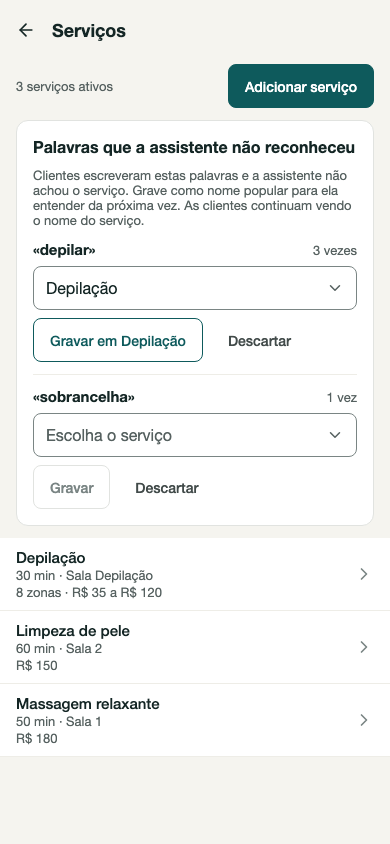
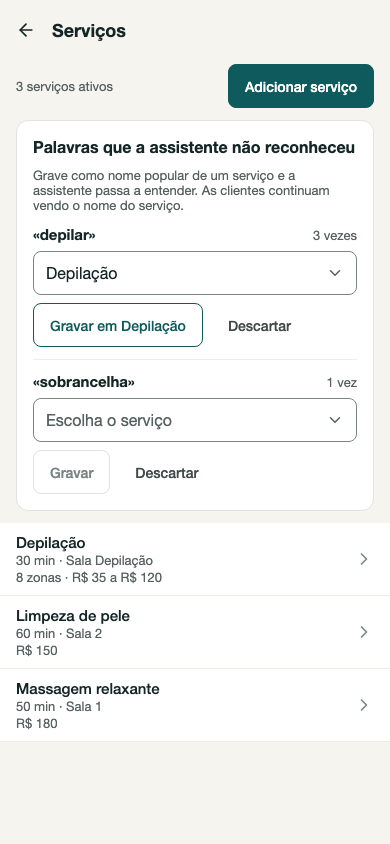
docs(clinic): copy do cartão M-63 Confirmada, descrição curta (DEC-141)
Paulo, 05/11/2026, sob DEC-104: título, botões e avisos como propostos;
descrição na versão curta. Atualiza o cartão, o teste, o mock e o preview
M-63, screens.md, ux-ui.md e a nota na DEC-141.

diff --git a/src/client/panel/screens/clinic/UnmatchedTermsCard.tsx b/src/client/panel/screens/clinic/UnmatchedTermsCard.tsx
@@ -14,9 +14,10 @@ type Props = {
 }
 
 /**
- * Palavras que a assistente não reconheceu (DEC-141, M-16 lista de Serviços).
+ * Palavras que a assistente não reconheceu (DEC-141, M-63 lista de Serviços).
  * Só a responsável vê (DEC-042). O serviço provável vem pré-escolhido, então
- * gravar é um toque; o sistema nunca grava sozinho. Copy **Proposta** (DEC-104).
+ * gravar é um toque; o sistema nunca grava sozinho. Copy **Confirmada** (Paulo,
+ * 05/11/2026, sob DEC-104).
  */
 export function UnmatchedTermsCard({ tenantId, api, generation, services, onSaved }: Props) {
   const [items, setItems] = useState<UnmatchedTermSuggestion[] | null>(null)
@@ -96,8 +97,8 @@ export function UnmatchedTermsCard({ tenantId, api, generation, services, onSave
         Palavras que a assistente não reconheceu
       </h2>
       <p className="panel-muted-sm">
-        Clientes escreveram estas palavras e a assistente não achou o serviço. Grave como nome
-        popular para ela entender da próxima vez. As clientes continuam vendo o nome do serviço.
+        Grave como nome popular de um serviço e a assistente passa a entender. As clientes
+        continuam vendo o nome do serviço.
       </p>
       <ul className="unmatched-terms-list">
         {items.map((item) => {

diff --git a/docs/design/mobile/ServicosSugestoes.dc.html b/docs/design/mobile/ServicosSugestoes.dc.html
@@ -48,7 +48,7 @@ body{margin:0}
 
     <section class="card" aria-labelledby="umt" style="margin:0 16px">
       <h2 class="h" id="umt">Palavras que a assistente não reconheceu</h2>
-      <p class="mut">Clientes escreveram estas palavras e a assistente não achou o serviço. Grave como nome popular para ela entender da próxima vez. As clientes continuam vendo o nome do serviço.</p>
+      <p class="mut">Grave como nome popular de um serviço e a assistente passa a entender. As clientes continuam vendo o nome do serviço.</p>
 
       <div class="term">
         <div class="th"><b>«depilar»</b><span class="mut">3 vezes</span></div>

diff --git a/src/client/panel/screens/clinic/UnmatchedTermsCard.test.tsx b/src/client/panel/screens/clinic/UnmatchedTermsCard.test.tsx
@@ -39,6 +39,12 @@ describe('UnmatchedTermsCard (DEC-141)', () => {
     )
     expect(await screen.findByText('«depilar»')).toBeTruthy()
     expect(screen.getByText('3 vezes')).toBeTruthy()
+    // Copy Confirmada (Paulo, 05/11/2026, DEC-104): versão curta.
+    expect(
+      screen.getByText(
+        'Grave como nome popular de um serviço e a assistente passa a entender. As clientes continuam vendo o nome do serviço.',
+      ),
+    ).toBeTruthy()
     // Sem serviço provável, gravar espera a escolha.
     const buttons = screen.getAllByRole('button', { name: 'Gravar' })
     expect(buttons).toHaveLength(1)

diff --git a/docs/product/decisions.md b/docs/product/decisions.md
@@ -198,4 +198,4 @@ Enquanto essas decisões não estiverem fechadas, é possível demonstrar a jorn
 | DEC-138 | **Confirmado** (Paulo, 03/11/2026: «1 sim», «2 flow sem flag», «3 saem», em resposta à recomendação sobre a fragilidade da conversa de agendamento) | Caminho principal de agendar: WhatsApp Flow, depois de reforçar o núcleo | A sonda real de novembro de 2026 mostrou que o bot avança com um pedido incompleto (zona que cai, dia perdido no toque, sessão antiga, Confirmar expirado). Como tornar o agendamento robusto? | (1) **Fase 1 já, sem a Meta:** doze práticas no núcleo e no texto livre (limiar de confiança; id e não título; uma forma de data `terça 03/11 17:00` sem fuso nem mês-dia; um só quadro para toque, texto, correção e Flow; recomeçar limpa o frame; uma pergunta pelo campo que falta; corrigir volta ao campo certo; validade visível; atalho de texto com eco; handoff com o quadro; sinónimos e plural só na linha; medir o estrago). (2) **Fase 2, depois do primeiro teste real com a Meta:** o caminho principal passa a ser um WhatsApp Flow com `data_exchange` em quatro passos (serviço, género só se houver mais do que um, variantes em seleção múltipla com «Todas», horário livre da agenda no relógio da clínica). **Sem flag.** O Flow não marca, não escolhe sala nem profissional, não cobra Pix; no fim, o chat envia a proposta e só o Confirmar marca (DEC-061). O texto livre continua com o eco (DEC-137); se o Flow não abrir, o chat assume. (3) **Quando o Flow entrar, as listas e botões de escolha do M5 saem.** Ficam o Confirmar, o «Falar com a equipe» e os follow-ups. Opções descartadas: só reforçar o chat; Flow só para as zonas; Flow atrás de flag; manter as listas como caminho alternativo. | Plano e issues em [epic-nucleo-conversacional.md](../implementation/epic-nucleo-conversacional.md) (#506 a #515). Revê, quando o Flow entrar, a DEC-128, a DEC-133, a DEC-134 e a DEC-135 (listas e botões). **Confirmado (Paulo, 04/11/2026 America/Sao_Paulo, opção A, fecha o Em aberto da [#515](https://github.com/intentzero/tredane/issues/515)):** os botões **Sim / Corrigir** do eco da DEC-137 **mantêm-se** no caminho de texto livre quando o Flow entrar e o M5 sair. **Em aberto:** frases novas da Fase 1 (fora de C1–C15) exigem aprovação (DEC-104). Não altera DEC-061, DEC-079, DEC-083, DEC-104 nem DEC-127. **Revisão do item 1 (Paulo, 03/11/2026, «Eu queria avançar desde já para flow»):** o Flow deixa de esperar a Fase 1 e passa a ser a frente principal já. Da Fase 1, entram antes ou junto do Flow só as fatias de que ele depende (#506 casos da sonda, #507 id do horário com data e hora, #510 um só quadro); as restantes (#508, #509, #511, #512) seguem em paralelo para o texto livre. O teste do Flow faz-se no WABA da clínica de teste antes do merge que o liga; continua sem flag. **ADR-0016 Confirmado** (Paulo, 04/11/2026 America/Sao_Paulo, opção A): desenho de engenharia do Flow em [ADR-0016](../adr/0016-whatsapp-flow-agendamento.md); a #513 fecha com o ADR escrito; a #514 (implementação/Meta) continua aberta. **Copy C1–C15 Confirmada** (Paulo, 04/11/2026 America/Sao_Paulo, opção A, sob DEC-104): as 15 frases do Flow em ADR-0016 §10 / `FLOW_COPY` ficam aprovadas exactamente como estão; sem DEC nova — nota Confirmada sob DEC-138/ADR (as levas DEC-122/123 usaram DEC própria por serem lotes do catálogo de atos). Não liga o Flow live nem a #515. **Implementação parcial (#509):** práticas 1 e 11 no texto livre — limiar de confiança (sobra sem match único pergunta; nunca Horários com N−1) e sinónimos/plural só no âmbito da linha travada (DEC-110 + DEC-137); copy «Não encontrei {palavra}…» **Proposta** até aprovação. |
 | DEC-139 | **Confirmado** (Paulo, 05/11/2026, guia de decisões da [metodologia de avaliação](../implementation/metodologia-avaliacao-conversacional.md), decisões 1 a 4, todas na opção recomendada; [#567](https://github.com/intentzero/tredane/pull/567)) | Metodologia de teste e avaliação da interface conversacional | (1) A metodologia é a **referência do projeto**: KPIs em quatro camadas (gate, saúde offline, produção, processo), comparação caso a caso com a linha de base do scorecard L1, cadência e gatilhos de revisão. Os limiares numéricos (latência, custo, tolerâncias de `KPI_RULES`) continuam **Em aberto** até haver duas linhas de base. (2) Uma **regressão informativa** do scorecard (não-INV) **não bloqueia** o merge, mas o PR tem de a justificar ou corrigir; reavaliar depois de duas linhas de base estáveis. As INV continuam a bloquear (DEC-108). (3) **Cadência:** uma iteração por semana durante o piloto **e** antes de cada liberação ao piloto, o que vier primeiro (linha de base, L2/L3 live dentro da DEC-117/126, linha no §7 do plano). (4) **Análise de erros:** o agente lê os traços, agrupa e propõe taxonomia e casos novos; o Paulo valida. | Completa a DEC-108. Opções descartadas: bloquear já com `EVAL_STRICT=1`; só informativo; cadência só por liberação ou por PR; análise feita só pelo Paulo ou por outra pessoa. |
 | DEC-140 | **Confirmado** (Paulo, 05/11/2026, decisão 5 do mesmo guia, opção recomendada) | Texto que acompanha o CTA do Flow a meio do funil | Quando o Flow substitui as escolhas do M5 (linha, variantes, horários) depois de um pedido da cliente, o corpo da mensagem é a **pergunta que o funil já calculou** (ex. «Para Depilação, é na versão feminina ou masculina?») com o botão «Abrir opções». O C1h «Olá! O que você precisa?» fica só como recurso quando não há texto do funil. Não cria copy nova (DEC-104). A abertura do hub ao cumprimento não muda. | Opções descartadas: frase nova do Flow; manter o C1h. Afeta `maybeReplaceM5WithFlow` (`offer-live.ts`) e o FL-12. |
-| DEC-141 | **Confirmado** (Paulo, 05/11/2026, decisão 6 do mesmo guia, opção recomendada) | Reconhecer formas verbais sem sinónimo («depilar» → Depilação) | **Mantém-se a DEC-110:** sem derivação automática de verbos a partir do nome do serviço. Quando um termo não é reconhecido, o painel deve **sugerir à owner** gravar o sinónimo (realiza o Em aberto da DEC-110; só a owner grava). O A-20 fixa o comportamento atual. | Opções descartadas: derivar verbos (risco de casar o serviço errado entre nomes parecidos); manter sem sugestão. **Implementado (05/11/2026):** registo por clínica só do termo (migração 0052 `unmatched_terms`, sem conversa nem contato), cartão «Palavras que a assistente não reconheceu» na lista de Serviços da owner (M-63) com o serviço provável pré-escolhido, **Gravar** e **Descartar**; L1 A-21. Copy do cartão **Proposta** (DEC-104). |
+| DEC-141 | **Confirmado** (Paulo, 05/11/2026, decisão 6 do mesmo guia, opção recomendada) | Reconhecer formas verbais sem sinónimo («depilar» → Depilação) | **Mantém-se a DEC-110:** sem derivação automática de verbos a partir do nome do serviço. Quando um termo não é reconhecido, o painel deve **sugerir à owner** gravar o sinónimo (realiza o Em aberto da DEC-110; só a owner grava). O A-20 fixa o comportamento atual. | Opções descartadas: derivar verbos (risco de casar o serviço errado entre nomes parecidos); manter sem sugestão. **Implementado (05/11/2026):** registo por clínica só do termo (migração 0052 `unmatched_terms`, sem conversa nem contato), cartão «Palavras que a assistente não reconheceu» na lista de Serviços da owner (M-63) com o serviço provável pré-escolhido, **Gravar** e **Descartar**; L1 A-21. **Copy do cartão Confirmada** (Paulo, 05/11/2026, sob DEC-104): título, botões e avisos como propostos; descrição na versão curta («Grave como nome popular de um serviço e a assistente passa a entender. As clientes continuam vendo o nome do serviço.»). |

diff --git a/docs/product/ux-ui.md b/docs/product/ux-ui.md
@@ -258,7 +258,7 @@ Reduz a carga cognitiva de configurar e conferir a clínica. Não altera DEC-042
 
 **Ficha do serviço (M-16, Confirmado, DEC-106 / [#334](https://github.com/intentzero/tredane/issues/334); sinónimos Confirmado DEC-110 / [#421](https://github.com/intentzero/tredane/issues/421)).** Ordem à vista: nome → **sinónimos** opcionais (chips de nomes populares; só a owner grava, DEC-042) → formato (Opção única / Com variantes) → duração e preço (ou catálogo de variantes, cada uma com sinónimos opcionais) → chips **«Quem faz»** e **«Onde acontece»** (este marcado obrigatório e sempre visível; salvar sem escolha mostra o erro junto do campo, sem esconder em «Mais opções») → resumo **«Como fica na agenda»** (duração + intervalo; sala da lista ou sem espaço) → linhas com estado: Intervalo, Para quem (audiência), Sinal Pix, Tempo, Dias e horas, Explicação IA. Os sinónimos só alimentam a interpretação (léxico / resolvedor); as respostas à cliente usam sempre o nome do catálogo. **Tempo** abre a folha **M-53** (Céu, Temperatura, Graus; DEC-077 intacta). Equipamento opcional permanece acessível sem promover regras novas. **Sair com alterações (Confirmado, Paulo, 01/11/2026, DEC-101).** Variante nova, editada ou removida ainda sem salvar, combo ou qualquer outro campo da ficha deixam o formulário sujo. Voltar, fechar o painel, abrir outro serviço ou ir a outra área do painel mostra «Alterações não salvas», com **Continuar editando** (fica) e **Sair sem salvar** (descarta e sai). Não grava sozinho e não oferece um terceiro botão de gravar — isso continua só na ficha de profissional e sala (DEC-105). Sem alterações, sai direto. Salvar com sucesso limpa o rascunho. Atualizar ou fechar a aba pede a confirmação do navegador.
 
-**Palavras que a assistente não reconheceu (M-63, Proposto; comportamento Confirmado em DEC-141).** Quando a cliente usa um termo que não casa nenhum serviço nem sinónimo e a assistente responde «"{termo}" eu não encontrei por aqui» (CF-34), o termo fica registado na clínica: só o termo, quantas vezes e quando, sem conversa, contato nem texto da mensagem; não vai a telemetria. Na lista de Serviços, a responsável vê o cartão «Palavras que a assistente não reconheceu» (até 20, as mais frequentes primeiro). Cada linha mostra o termo, quantas vezes, e o serviço provável já escolhido (maior prefixo comum com o nome, as variantes ou os sinónimos; empate ou prefixo curto deixa «Escolha o serviço»). **Gravar em {serviço}** acrescenta o termo aos sinónimos do serviço com as regras da ficha (até 8, 2–40 caracteres, sem colisão) e o próximo turno já o reconhece; **Descartar** esconde o termo mesmo que volte. O sistema nunca grava sozinho e não deriva verbos (DEC-110); o serviço provável é só pré-seleção no painel. Só a responsável vê e grava (DEC-042); a atendente não vê o cartão e a API responde 403. Sem sugestões, o cartão não aparece. Erros de limite ou colisão aparecem na linha, com a frase da ficha. O reset operacional e a exclusão da clínica apagam o registo. Textos do cartão **Propostos** (DEC-104).
+**Palavras que a assistente não reconheceu (M-63; comportamento Confirmado em DEC-141; copy Confirmada, Paulo, 05/11/2026, sob DEC-104).** Quando a cliente usa um termo que não casa nenhum serviço nem sinónimo e a assistente responde «"{termo}" eu não encontrei por aqui» (CF-34), o termo fica registado na clínica: só o termo, quantas vezes e quando, sem conversa, contato nem texto da mensagem; não vai a telemetria. Na lista de Serviços, a responsável vê o cartão «Palavras que a assistente não reconheceu» (até 20, as mais frequentes primeiro). Cada linha mostra o termo, quantas vezes, e o serviço provável já escolhido (maior prefixo comum com o nome, as variantes ou os sinónimos; empate ou prefixo curto deixa «Escolha o serviço»). **Gravar em {serviço}** acrescenta o termo aos sinónimos do serviço com as regras da ficha (até 8, 2–40 caracteres, sem colisão) e o próximo turno já o reconhece; **Descartar** esconde o termo mesmo que volte. O sistema nunca grava sozinho e não deriva verbos (DEC-110); o serviço provável é só pré-seleção no painel. Só a responsável vê e grava (DEC-042); a atendente não vê o cartão e a API responde 403. Sem sugestões, o cartão não aparece. Erros de limite ou colisão aparecem na linha, com a frase da ficha. O reset operacional e a exclusão da clínica apagam o registo. Textos do cartão **Confirmados** (Paulo, 05/11/2026, sob DEC-104): título «Palavras que a assistente não reconheceu»; descrição «Grave como nome popular de um serviço e a assistente passa a entender. As clientes continuam vendo o nome do serviço.»; «Gravar em {serviço}» / «Gravar», «Descartar», «1 vez» / «N vezes», «Escolha o serviço»; ««{termo}» gravado em {serviço}.», ««{termo}» descartado.», «Não foi possível gravar. Tente de novo.», «Não foi possível descartar. Tente de novo.».
 
 **Gravação em profissional e sala (Confirmado, DEC-105 / [#335](https://github.com/intentzero/tredane/issues/335)).** Um único rascunho com barra fixa «N alterações · Descartar · Salvar» que nomeia o efeito noutras fichas (ex.: «muda Quem faz em Peeling»; «muda Onde acontece em Depilação»). Nada grava antes de Salvar; Descartar restaura; falha mantém o digitado. **Ao fechar o sidepane/painel ou Cancelar com rascunho:** diálogo «alterações não salvas» com gravar, descartar ou continuar a editar — não fecha em silêncio. Folgas e fechamentos pontuais ficam no fluxo próprio de bloqueio. A nota de sala na ficha da profissional sai (DEC-082).
 

diff --git a/docs/design/screens.md b/docs/design/screens.md
@@ -70,7 +70,7 @@ Cada linha liga um mock a sua especificação. **A especificação manda:** em c
 | M-60 | `ClinicaPassoAgora` | TEL-09 início, clínica a configurar (**Proposto**) | JRN-08 · REQ-052 · AC-14 | Um único «próximo passo» com um botão; «O caminho» com 5 passos (Horário, Salas, Profissionais, Serviços, WhatsApp), cada um com a razão da ordem e se pode ser pulado; Pix e IA só em «Depois, se quiser» | M-61 |
 | M-61 | `ClinicaPronta` | TEL-09 início, clínica pronta (**Proposto**) | JRN-08 · REQ-052 · AC-14 | Selo «Pronta para atender»; alerta só quando há serviço sem profissional (substitui a entrada «Conferir»); áreas agrupadas por pergunta: Quando atende · Quem, o quê e onde · Como fala com as clientes | M-62, M-52 |
 | M-62 | `ClinicaAssistente` | TEL-09 Assistente e automações (**Proposto**) | JRN-08 · REQ-052 · DEC-042, DEC-089 | IA, nome e género do atendente, endereço e regras, e proteções numa tela própria; limites recomendados ligados por padrão, os 9 números atrás de «Personalizar» | M-61 |
-| M-63 | `ServicosSugestoes` | TEL-09 lista de Serviços (**Proposto**, DEC-141) | JRN-08 · REQ-052 · DEC-042, DEC-110, DEC-141 | Lista de Serviços da responsável com o cartão «Palavras que a assistente não reconheceu»: termo, quantas vezes, serviço provável já escolhido, **Gravar em {serviço}** e **Descartar**; sem serviço provável, «Escolha o serviço» e Gravar desligado. Só a owner vê; sem sugestões, o cartão não aparece. Copy **Proposta** (DEC-104) | M-15, M-16 |
+| M-63 | `ServicosSugestoes` | TEL-09 lista de Serviços (DEC-141) | JRN-08 · REQ-052 · DEC-042, DEC-110, DEC-141 | Lista de Serviços da responsável com o cartão «Palavras que a assistente não reconheceu»: termo, quantas vezes, serviço provável já escolhido, **Gravar em {serviço}** e **Descartar**; sem serviço provável, «Escolha o serviço» e Gravar desligado. Só a owner vê; sem sugestões, o cartão não aparece. Copy **Confirmada** (Paulo, 05/11/2026, sob DEC-104; descrição na versão curta: «Grave como nome popular de um serviço e a assistente passa a entender. As clientes continuam vendo o nome do serviço.») | M-15, M-16 |
 | M-41 | `BloquearContato` | TEL-01 conversa | JRN-02 | Diálogo central de confirmação: o que acontece (mensagens novas não aparecem, ninguém responde, conversa encerrada; histórico e horários ficam), motivo opcional (só a equipe vê), **Bloquear contato** e **Cancelar**. **Proposto** (27/10/2026) | M-40, M-42 |
 | M-42 | `ContatoBloqueado` | TEL-01 conversa | JRN-02 | Conversa de contato bloqueado: cabeçalho «Bloqueado por Ana · hoje, 19:20», evento «Ana bloqueou este contato» e, no lugar do compositor, aviso com **Desbloquear**. **Proposto** (27/10/2026) | M-41, M-02 |
 | M-43 | `RascunhoCartao` | §6.3 IA | JRN-02 · REQ-022 | Rascunho da IA no compositor como cartão de largura total: cabeçalho «Rascunho da IA · revise antes de enviar» com tela cheia e descartar, texto em parágrafos curtos, rodapé **Outra**, **Nota** (recolhida) e **Enviar**. **Proposto** (27/10/2026) | M-02, M-30 |
